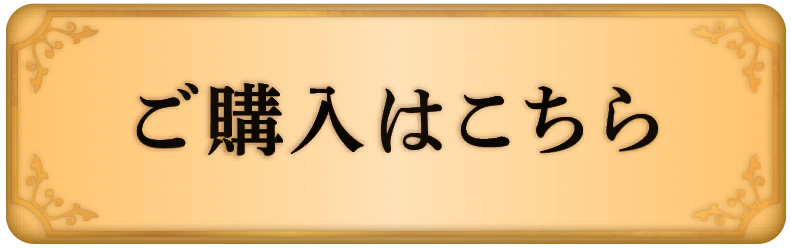
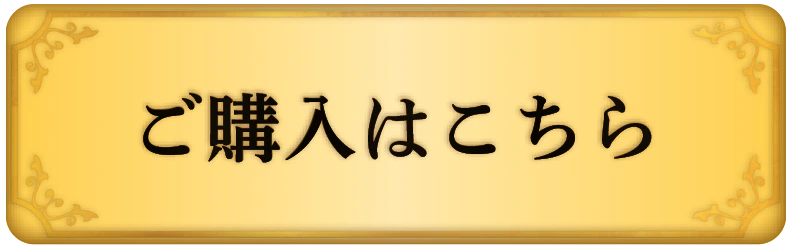
feat(shusyasosei): swap CTA buttons — ご購入はこちら + 店舗様・卸販売はこちら
Replace both button slots (PC right rail + mobile sticky bar) with the two
new client-supplied buttons:
- btn-purchase.webp: richer ご購入はこちら (data-cta="purchase")
- btn-wholesale.webp: new 店舗様・卸販売はこちら / LINEでご案内いたします
  (data-cta="wholesale"), replaces the old 今すぐ購入 slot + text pill link

Remove orphaned btn-buy.webp and dead .wholesale text-pill CSS. Assets
converted from PNG via cwebp q92 -sharp_yuv, 791x248, dims unchanged.
README CTA table updated. Links remain href="#" placeholders.

Claude-Session: https://claude.ai/code/session_01L1jLfbRSvdYWS7RbBkSGfM

diff --git a/index.html b/index.html
@@ -102,12 +102,6 @@
   .sns-label{font-size:14px;letter-spacing:.18em;opacity:.9}
   .sns-icons{display:flex;gap:22px;align-items:center}
   .sns-icons img{width:40px;height:40px}
-  .wholesale{
-    display:inline-block;border:1px solid rgba(255,255,255,.75);
-    border-radius:999px;padding:13px 26px;font-size:14px;letter-spacing:.02em;
-    transition:background .2s,color .2s;
-  }
-  .wholesale:hover{background:#fff;color:#111}
 
   /* ===== PC 固定レール ===== */
   .rail{display:none}
@@ -127,10 +121,10 @@
     .rail-left *{pointer-events:auto}
     .rail-right .sns-label{font-size:15px;letter-spacing:.16em;opacity:.9;margin-bottom:-2px}
     .rail-right .sns-icons img{width:44px;height:44px}
-    .rail-right > a[data-cta="purchase"]{width:100%}
+    .rail-right > a[data-cta="purchase"],
+    .rail-right > a[data-cta="wholesale"]{width:100%}
     .cta-img{width:min(215px,88%);margin:0 auto;filter:drop-shadow(0 6px 14px rgba(0,0,0,.4));transition:transform .18s,filter .18s}
     .cta-img:hover{transform:translateY(-2px);filter:drop-shadow(0 10px 20px rgba(255,207,76,.35))}
-    .rail-right .wholesale{margin-top:8px;padding:11px 20px;font-size:13px}
     .mobile-extras{display:none}
     body{padding-bottom:0}
   }
@@ -169,9 +163,8 @@
       <a href="#" data-cta="line" aria-label="公式LINE"><img src="assets/icon-line.webp" alt="LINE"></a>
       <a href="#" data-cta="instagram" aria-label="公式Instagram"><img src="assets/icon-ig.webp" alt="Instagram"></a>
     </div>
-    <a href="#" data-cta="purchase" aria-label="今すぐ購入"><img class="cta-img" src="assets/btn-buy.webp" alt="今すぐ購入"></a>
     <a href="#" data-cta="purchase" aria-label="ご購入はこちら"><img class="cta-img" src="assets/btn-purchase.webp" alt="ご購入はこちら"></a>
-    <a href="#" data-cta="wholesale" class="wholesale">卸売販売パートナー様はこちら</a>
+    <a href="#" data-cta="wholesale" aria-label="店舗様・卸販売はこちら"><img class="cta-img" src="assets/btn-wholesale.webp" alt="店舗様・卸販売はこちら（LINEでご案内いたします）"></a>
   </div>
 
   <!-- 中央コンテンツ -->
@@ -217,7 +210,6 @@
         <a href="#" data-cta="line" aria-label="公式LINE"><img src="assets/icon-line.webp" alt="LINE"></a>
         <a href="#" data-cta="instagram" aria-label="公式Instagram"><img src="assets/icon-ig.webp" alt="Instagram"></a>
       </div>
-      <a href="#" data-cta="wholesale" class="wholesale">卸売販売パートナー様はこちら</a>
     </div>
 
     <!-- 11: 保証・特典 + フッター -->
@@ -239,8 +231,8 @@
 
   <!-- モバイル固定CTA -->
   <div class="mobile-cta">
-    <a href="#" data-cta="purchase" aria-label="今すぐ購入"><img src="assets/btn-buy.webp" alt="今すぐ購入"></a>
     <a href="#" data-cta="purchase" aria-label="ご購入はこちら"><img src="assets/btn-purchase.webp" alt="ご購入はこちら"></a>
+    <a href="#" data-cta="wholesale" aria-label="店舗様・卸販売はこちら"><img src="assets/btn-wholesale.webp" alt="店舗様・卸販売はこちら（LINEでご案内いたします）"></a>
   </div>
 
 <script>

diff --git a/README.md b/README.md
@@ -35,10 +35,10 @@ attribute so you can find/replace by purpose:
 
 | `data-cta` | Where it appears | Point it to |
 |---|---|---|
-| `purchase` | 今すぐ購入 / ご購入はこちら (right rail + mobile sticky bar) | Shopify product / checkout URL |
+| `purchase` | ご購入はこちら (right rail + mobile sticky bar) | Shopify product / checkout URL |
 | `line` | Official SNS (LINE icon) | 公式LINE URL |
 | `instagram` | Official SNS (IG icon) | 公式Instagram URL |
-| `wholesale` | 卸売販売パートナー様はこちら | Wholesale inquiry page/form |
+| `wholesale` | 店舗様・卸販売はこちら（LINEでご案内いたします）(right rail + mobile sticky bar) | 卸売 inquiry — LINE URL / form |
 | `tokushoho` | Footer | 特定商取引法に基づく表示 page |
 | `privacy` | Footer | プライバシーポリシー page |
 
